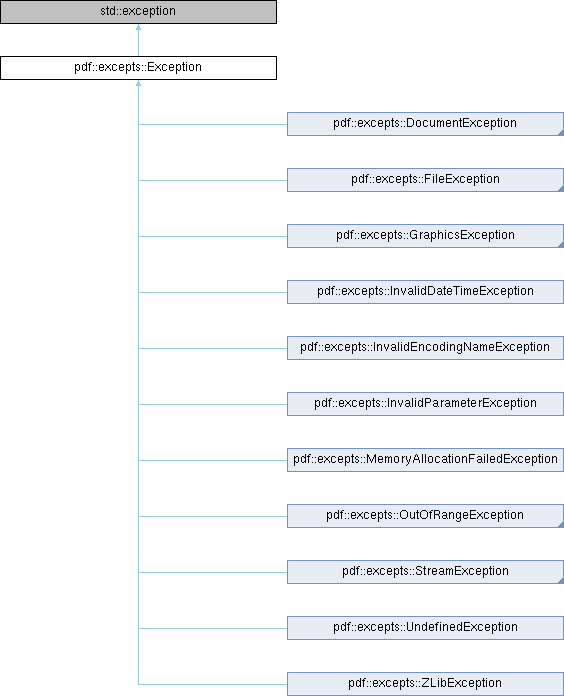
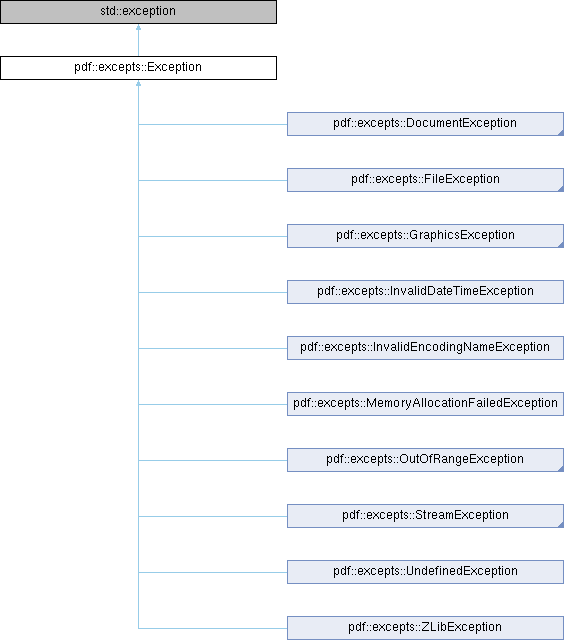
deploy: c2ab6d6fbd1d65dc11c28aa1ee2d482e0fc818df

diff --git a/hierarchy.html b/hierarchy.html
@@ -128,39 +128,39 @@ $(document).ready(function(){initNavTree('hierarchy.html',''); initResizable(); 
 <tr id="row_0_0_2_3_" class="odd"><td class="entry"><span style="width:64px;display:inline-block;">&#160;</span><span class="icona"><span class="icon">C</span></span><a class="el" href="classpdf_1_1excepts_1_1UnsupportedFunctionException.html" target="_self">pdf::excepts::UnsupportedFunctionException</a></td><td class="desc"></td></tr>
 <tr id="row_0_0_3_" class="even"><td class="entry"><span style="width:48px;display:inline-block;">&#160;</span><span class="icona"><span class="icon">C</span></span><a class="el" href="classpdf_1_1excepts_1_1InvalidDateTimeException.html" target="_self">pdf::excepts::InvalidDateTimeException</a></td><td class="desc"></td></tr>
 <tr id="row_0_0_4_" class="odd"><td class="entry"><span style="width:48px;display:inline-block;">&#160;</span><span class="icona"><span class="icon">C</span></span><a class="el" href="classpdf_1_1excepts_1_1InvalidEncodingNameException.html" target="_self">pdf::excepts::InvalidEncodingNameException</a></td><td class="desc"></td></tr>
-<tr id="row_0_0_5_" class="even"><td class="entry"><span style="width:48px;display:inline-block;">&#160;</span><span class="icona"><span class="icon">C</span></span><a class="el" href="classpdf_1_1excepts_1_1InvalidParameterException.html" target="_self">pdf::excepts::InvalidParameterException</a></td><td class="desc"></td></tr>
-<tr id="row_0_0_6_" class="odd"><td class="entry"><span style="width:48px;display:inline-block;">&#160;</span><span class="icona"><span class="icon">C</span></span><a class="el" href="classpdf_1_1excepts_1_1MemoryAllocationFailedException.html" target="_self">pdf::excepts::MemoryAllocationFailedException</a></td><td class="desc"></td></tr>
-<tr id="row_0_0_7_" class="even"><td class="entry"><span style="width:32px;display:inline-block;">&#160;</span><span id="arr_0_0_7_" class="arrow" onclick="toggleFolder('0_0_7_')">&#9660;</span><span class="icona"><span class="icon">C</span></span><a class="el" href="classpdf_1_1excepts_1_1OutOfRangeException.html" target="_self">pdf::excepts::OutOfRangeException</a></td><td class="desc">Represents exceptions linked with out of range values </td></tr>
-<tr id="row_0_0_7_0_" class="odd"><td class="entry"><span style="width:64px;display:inline-block;">&#160;</span><span class="icona"><span class="icon">C</span></span><a class="el" href="classpdf_1_1excepts_1_1BinaryLengthTooLongException.html" target="_self">pdf::excepts::BinaryLengthTooLongException</a></td><td class="desc"></td></tr>
-<tr id="row_0_0_7_1_" class="even"><td class="entry"><span style="width:64px;display:inline-block;">&#160;</span><span class="icona"><span class="icon">C</span></span><a class="el" href="classpdf_1_1excepts_1_1FloatValueOutOfRangeException.html" target="_self">pdf::excepts::FloatValueOutOfRangeException</a></td><td class="desc"></td></tr>
-<tr id="row_0_0_7_2_" class="odd"><td class="entry"><span style="width:64px;display:inline-block;">&#160;</span><span class="icona"><span class="icon">C</span></span><a class="el" href="classpdf_1_1excepts_1_1StringOutOfRangeException.html" target="_self">pdf::excepts::StringOutOfRangeException</a></td><td class="desc"></td></tr>
-<tr id="row_0_0_7_3_" class="even"><td class="entry"><span style="width:64px;display:inline-block;">&#160;</span><span class="icona"><span class="icon">C</span></span><a class="el" href="classpdf_1_1excepts_1_1TooManyIndirectObjectsException.html" target="_self">pdf::excepts::TooManyIndirectObjectsException</a></td><td class="desc"></td></tr>
-<tr id="row_0_0_8_" class="odd"><td class="entry"><span style="width:32px;display:inline-block;">&#160;</span><span id="arr_0_0_8_" class="arrow" onclick="toggleFolder('0_0_8_')">&#9660;</span><span class="icona"><span class="icon">C</span></span><a class="el" href="classpdf_1_1excepts_1_1StreamException.html" target="_self">pdf::excepts::StreamException</a></td><td class="desc">Represents exceptions linked with <a class="el" href="classpdf_1_1ContentStream.html" title="Represents a content stream.">ContentStream</a> </td></tr>
-<tr id="row_0_0_8_0_" class="even"><td class="entry"><span style="width:48px;display:inline-block;">&#160;</span><span id="arr_0_0_8_0_" class="arrow" onclick="toggleFolder('0_0_8_0_')">&#9660;</span><span class="icona"><span class="icon">C</span></span><a class="el" href="classpdf_1_1excepts_1_1FontException.html" target="_self">pdf::excepts::FontException</a></td><td class="desc">Represents exceptions linked with <a class="el" href="classpdf_1_1Font.html" title="Represents a font.">Font</a> </td></tr>
-<tr id="row_0_0_8_0_0_" class="odd"><td class="entry"><span style="width:80px;display:inline-block;">&#160;</span><span class="icona"><span class="icon">C</span></span><a class="el" href="classpdf_1_1excepts_1_1ExceededJWWCodeNumLimitException.html" target="_self">pdf::excepts::ExceededJWWCodeNumLimitException</a></td><td class="desc"></td></tr>
-<tr id="row_0_0_8_0_1_" class="even"><td class="entry"><span style="width:80px;display:inline-block;">&#160;</span><span class="icona"><span class="icon">C</span></span><a class="el" href="classpdf_1_1excepts_1_1FontAlreadyExistsException.html" target="_self">pdf::excepts::FontAlreadyExistsException</a></td><td class="desc"></td></tr>
-<tr id="row_0_0_8_0_2_" class="odd"><td class="entry"><span style="width:80px;display:inline-block;">&#160;</span><span class="icona"><span class="icon">C</span></span><a class="el" href="classpdf_1_1excepts_1_1FontDuplicateRegistrationException.html" target="_self">pdf::excepts::FontDuplicateRegistrationException</a></td><td class="desc"></td></tr>
-<tr id="row_0_0_8_0_3_" class="even"><td class="entry"><span style="width:80px;display:inline-block;">&#160;</span><span class="icona"><span class="icon">C</span></span><a class="el" href="classpdf_1_1excepts_1_1FontInvalidWidthsTableException.html" target="_self">pdf::excepts::FontInvalidWidthsTableException</a></td><td class="desc"></td></tr>
-<tr id="row_0_0_8_0_4_" class="odd"><td class="entry"><span style="width:80px;display:inline-block;">&#160;</span><span class="icona"><span class="icon">C</span></span><a class="el" href="classpdf_1_1excepts_1_1FontNotFoundException.html" target="_self">pdf::excepts::FontNotFoundException</a></td><td class="desc"></td></tr>
-<tr id="row_0_0_8_0_5_" class="even"><td class="entry"><span style="width:80px;display:inline-block;">&#160;</span><span class="icona"><span class="icon">C</span></span><a class="el" href="classpdf_1_1excepts_1_1InvalidEncoderTypeException.html" target="_self">pdf::excepts::InvalidEncoderTypeException</a></td><td class="desc"></td></tr>
-<tr id="row_0_0_8_0_6_" class="odd"><td class="entry"><span style="width:80px;display:inline-block;">&#160;</span><span class="icona"><span class="icon">C</span></span><a class="el" href="classpdf_1_1excepts_1_1InvalidFontNameException.html" target="_self">pdf::excepts::InvalidFontNameException</a></td><td class="desc"></td></tr>
-<tr id="row_0_0_8_0_7_" class="even"><td class="entry"><span style="width:80px;display:inline-block;">&#160;</span><span class="icona"><span class="icon">C</span></span><a class="el" href="classpdf_1_1excepts_1_1InvalidFontSizeException.html" target="_self">pdf::excepts::InvalidFontSizeException</a></td><td class="desc"></td></tr>
-<tr id="row_0_0_8_1_" class="odd"><td class="entry"><span style="width:48px;display:inline-block;">&#160;</span><span id="arr_0_0_8_1_" class="arrow" onclick="toggleFolder('0_0_8_1_')">&#9660;</span><span class="icona"><span class="icon">C</span></span><a class="el" href="classpdf_1_1excepts_1_1ImageException.html" target="_self">pdf::excepts::ImageException</a></td><td class="desc">Represents exceptions linked with <a class="el" href="classpdf_1_1Image.html" title="Represents an image.">Image</a> </td></tr>
-<tr id="row_0_0_8_1_0_" class="even"><td class="entry"><span style="width:80px;display:inline-block;">&#160;</span><span class="icona"><span class="icon">C</span></span><a class="el" href="classpdf_1_1excepts_1_1InvalidColorSpaceException.html" target="_self">pdf::excepts::InvalidColorSpaceException</a></td><td class="desc"></td></tr>
-<tr id="row_0_0_8_1_1_" class="odd"><td class="entry"><span style="width:80px;display:inline-block;">&#160;</span><span class="icona"><span class="icon">C</span></span><a class="el" href="classpdf_1_1excepts_1_1InvalidImageException.html" target="_self">pdf::excepts::InvalidImageException</a></td><td class="desc"></td></tr>
-<tr id="row_0_0_8_1_2_" class="even"><td class="entry"><span style="width:80px;display:inline-block;">&#160;</span><span class="icona"><span class="icon">C</span></span><a class="el" href="classpdf_1_1excepts_1_1InvalidImageOperationException.html" target="_self">pdf::excepts::InvalidImageOperationException</a></td><td class="desc"></td></tr>
-<tr id="row_0_0_8_1_3_" class="odd"><td class="entry"><span style="width:80px;display:inline-block;">&#160;</span><span class="icona"><span class="icon">C</span></span><a class="el" href="classpdf_1_1excepts_1_1InvalidPNGImageException.html" target="_self">pdf::excepts::InvalidPNGImageException</a></td><td class="desc"></td></tr>
-<tr id="row_0_0_8_1_4_" class="even"><td class="entry"><span style="width:80px;display:inline-block;">&#160;</span><span class="icona"><span class="icon">C</span></span><a class="el" href="classpdf_1_1excepts_1_1LibPNGException.html" target="_self">pdf::excepts::LibPNGException</a></td><td class="desc"></td></tr>
-<tr id="row_0_0_8_1_5_" class="odd"><td class="entry"><span style="width:80px;display:inline-block;">&#160;</span><span class="icona"><span class="icon">C</span></span><a class="el" href="classpdf_1_1excepts_1_1NonMatchingBitsPerComponentException.html" target="_self">pdf::excepts::NonMatchingBitsPerComponentException</a></td><td class="desc"></td></tr>
-<tr id="row_0_0_8_1_6_" class="even"><td class="entry"><span style="width:80px;display:inline-block;">&#160;</span><span class="icona"><span class="icon">C</span></span><a class="el" href="classpdf_1_1excepts_1_1UnsupportedJPEGFormatException.html" target="_self">pdf::excepts::UnsupportedJPEGFormatException</a></td><td class="desc"></td></tr>
-<tr id="row_0_0_8_2_" class="odd"><td class="entry"><span style="width:48px;display:inline-block;">&#160;</span><span id="arr_0_0_8_2_" class="arrow" onclick="toggleFolder('0_0_8_2_')">&#9660;</span><span class="icona"><span class="icon">C</span></span><a class="el" href="classpdf_1_1excepts_1_1PageException.html" target="_self">pdf::excepts::PageException</a></td><td class="desc">Represents exceptions linked with <a class="el" href="classpdf_1_1Page.html" title="Represents a pdf document page.">Page</a> </td></tr>
-<tr id="row_0_0_8_2_0_" class="even"><td class="entry"><span style="width:80px;display:inline-block;">&#160;</span><span class="icona"><span class="icon">C</span></span><a class="el" href="classpdf_1_1excepts_1_1EmptyURIException.html" target="_self">pdf::excepts::EmptyURIException</a></td><td class="desc"></td></tr>
-<tr id="row_0_0_8_2_1_" class="odd"><td class="entry"><span style="width:80px;display:inline-block;">&#160;</span><span class="icona"><span class="icon">C</span></span><a class="el" href="classpdf_1_1excepts_1_1InvalidPageLayoutException.html" target="_self">pdf::excepts::InvalidPageLayoutException</a></td><td class="desc"></td></tr>
-<tr id="row_0_0_8_2_2_" class="even"><td class="entry"><span style="width:80px;display:inline-block;">&#160;</span><span class="icona"><span class="icon">C</span></span><a class="el" href="classpdf_1_1excepts_1_1InvalidPageModeException.html" target="_self">pdf::excepts::InvalidPageModeException</a></td><td class="desc"></td></tr>
-<tr id="row_0_0_8_2_3_" class="odd"><td class="entry"><span style="width:80px;display:inline-block;">&#160;</span><span class="icona"><span class="icon">C</span></span><a class="el" href="classpdf_1_1excepts_1_1InvalidPageSizeException.html" target="_self">pdf::excepts::InvalidPageSizeException</a></td><td class="desc"></td></tr>
-<tr id="row_0_0_8_2_4_" class="even"><td class="entry"><span style="width:80px;display:inline-block;">&#160;</span><span class="icona"><span class="icon">C</span></span><a class="el" href="classpdf_1_1excepts_1_1PageValueOutOfRangeException.html" target="_self">pdf::excepts::PageValueOutOfRangeException</a></td><td class="desc"></td></tr>
-<tr id="row_0_0_9_" class="odd"><td class="entry"><span style="width:48px;display:inline-block;">&#160;</span><span class="icona"><span class="icon">C</span></span><a class="el" href="classpdf_1_1excepts_1_1UndefinedException.html" target="_self">pdf::excepts::UndefinedException</a></td><td class="desc">Represents exceptions that should not be raised </td></tr>
-<tr id="row_0_0_10_" class="even"><td class="entry"><span style="width:48px;display:inline-block;">&#160;</span><span class="icona"><span class="icon">C</span></span><a class="el" href="classpdf_1_1excepts_1_1ZLibException.html" target="_self">pdf::excepts::ZLibException</a></td><td class="desc"></td></tr>
+<tr id="row_0_0_5_" class="even"><td class="entry"><span style="width:48px;display:inline-block;">&#160;</span><span class="icona"><span class="icon">C</span></span><a class="el" href="classpdf_1_1excepts_1_1MemoryAllocationFailedException.html" target="_self">pdf::excepts::MemoryAllocationFailedException</a></td><td class="desc"></td></tr>
+<tr id="row_0_0_6_" class="odd"><td class="entry"><span style="width:32px;display:inline-block;">&#160;</span><span id="arr_0_0_6_" class="arrow" onclick="toggleFolder('0_0_6_')">&#9660;</span><span class="icona"><span class="icon">C</span></span><a class="el" href="classpdf_1_1excepts_1_1OutOfRangeException.html" target="_self">pdf::excepts::OutOfRangeException</a></td><td class="desc">Represents exceptions linked with out of range values </td></tr>
+<tr id="row_0_0_6_0_" class="even"><td class="entry"><span style="width:64px;display:inline-block;">&#160;</span><span class="icona"><span class="icon">C</span></span><a class="el" href="classpdf_1_1excepts_1_1BinaryLengthTooLongException.html" target="_self">pdf::excepts::BinaryLengthTooLongException</a></td><td class="desc"></td></tr>
+<tr id="row_0_0_6_1_" class="odd"><td class="entry"><span style="width:64px;display:inline-block;">&#160;</span><span class="icona"><span class="icon">C</span></span><a class="el" href="classpdf_1_1excepts_1_1FloatValueOutOfRangeException.html" target="_self">pdf::excepts::FloatValueOutOfRangeException</a></td><td class="desc"></td></tr>
+<tr id="row_0_0_6_2_" class="even"><td class="entry"><span style="width:64px;display:inline-block;">&#160;</span><span class="icona"><span class="icon">C</span></span><a class="el" href="classpdf_1_1excepts_1_1InvalidParameterException.html" target="_self">pdf::excepts::InvalidParameterException</a></td><td class="desc"></td></tr>
+<tr id="row_0_0_6_3_" class="odd"><td class="entry"><span style="width:64px;display:inline-block;">&#160;</span><span class="icona"><span class="icon">C</span></span><a class="el" href="classpdf_1_1excepts_1_1StringOutOfRangeException.html" target="_self">pdf::excepts::StringOutOfRangeException</a></td><td class="desc"></td></tr>
+<tr id="row_0_0_6_4_" class="even"><td class="entry"><span style="width:64px;display:inline-block;">&#160;</span><span class="icona"><span class="icon">C</span></span><a class="el" href="classpdf_1_1excepts_1_1TooManyIndirectObjectsException.html" target="_self">pdf::excepts::TooManyIndirectObjectsException</a></td><td class="desc"></td></tr>
+<tr id="row_0_0_7_" class="odd"><td class="entry"><span style="width:32px;display:inline-block;">&#160;</span><span id="arr_0_0_7_" class="arrow" onclick="toggleFolder('0_0_7_')">&#9660;</span><span class="icona"><span class="icon">C</span></span><a class="el" href="classpdf_1_1excepts_1_1StreamException.html" target="_self">pdf::excepts::StreamException</a></td><td class="desc">Represents exceptions linked with <a class="el" href="classpdf_1_1ContentStream.html" title="Represents a content stream.">ContentStream</a> </td></tr>
+<tr id="row_0_0_7_0_" class="even"><td class="entry"><span style="width:48px;display:inline-block;">&#160;</span><span id="arr_0_0_7_0_" class="arrow" onclick="toggleFolder('0_0_7_0_')">&#9660;</span><span class="icona"><span class="icon">C</span></span><a class="el" href="classpdf_1_1excepts_1_1FontException.html" target="_self">pdf::excepts::FontException</a></td><td class="desc">Represents exceptions linked with <a class="el" href="classpdf_1_1Font.html" title="Represents a font.">Font</a> </td></tr>
+<tr id="row_0_0_7_0_0_" class="odd"><td class="entry"><span style="width:80px;display:inline-block;">&#160;</span><span class="icona"><span class="icon">C</span></span><a class="el" href="classpdf_1_1excepts_1_1ExceededJWWCodeNumLimitException.html" target="_self">pdf::excepts::ExceededJWWCodeNumLimitException</a></td><td class="desc"></td></tr>
+<tr id="row_0_0_7_0_1_" class="even"><td class="entry"><span style="width:80px;display:inline-block;">&#160;</span><span class="icona"><span class="icon">C</span></span><a class="el" href="classpdf_1_1excepts_1_1FontAlreadyExistsException.html" target="_self">pdf::excepts::FontAlreadyExistsException</a></td><td class="desc"></td></tr>
+<tr id="row_0_0_7_0_2_" class="odd"><td class="entry"><span style="width:80px;display:inline-block;">&#160;</span><span class="icona"><span class="icon">C</span></span><a class="el" href="classpdf_1_1excepts_1_1FontDuplicateRegistrationException.html" target="_self">pdf::excepts::FontDuplicateRegistrationException</a></td><td class="desc"></td></tr>
+<tr id="row_0_0_7_0_3_" class="even"><td class="entry"><span style="width:80px;display:inline-block;">&#160;</span><span class="icona"><span class="icon">C</span></span><a class="el" href="classpdf_1_1excepts_1_1FontInvalidWidthsTableException.html" target="_self">pdf::excepts::FontInvalidWidthsTableException</a></td><td class="desc"></td></tr>
+<tr id="row_0_0_7_0_4_" class="odd"><td class="entry"><span style="width:80px;display:inline-block;">&#160;</span><span class="icona"><span class="icon">C</span></span><a class="el" href="classpdf_1_1excepts_1_1FontNotFoundException.html" target="_self">pdf::excepts::FontNotFoundException</a></td><td class="desc"></td></tr>
+<tr id="row_0_0_7_0_5_" class="even"><td class="entry"><span style="width:80px;display:inline-block;">&#160;</span><span class="icona"><span class="icon">C</span></span><a class="el" href="classpdf_1_1excepts_1_1InvalidEncoderTypeException.html" target="_self">pdf::excepts::InvalidEncoderTypeException</a></td><td class="desc"></td></tr>
+<tr id="row_0_0_7_0_6_" class="odd"><td class="entry"><span style="width:80px;display:inline-block;">&#160;</span><span class="icona"><span class="icon">C</span></span><a class="el" href="classpdf_1_1excepts_1_1InvalidFontNameException.html" target="_self">pdf::excepts::InvalidFontNameException</a></td><td class="desc"></td></tr>
+<tr id="row_0_0_7_0_7_" class="even"><td class="entry"><span style="width:80px;display:inline-block;">&#160;</span><span class="icona"><span class="icon">C</span></span><a class="el" href="classpdf_1_1excepts_1_1InvalidFontSizeException.html" target="_self">pdf::excepts::InvalidFontSizeException</a></td><td class="desc"></td></tr>
+<tr id="row_0_0_7_1_" class="odd"><td class="entry"><span style="width:48px;display:inline-block;">&#160;</span><span id="arr_0_0_7_1_" class="arrow" onclick="toggleFolder('0_0_7_1_')">&#9660;</span><span class="icona"><span class="icon">C</span></span><a class="el" href="classpdf_1_1excepts_1_1ImageException.html" target="_self">pdf::excepts::ImageException</a></td><td class="desc">Represents exceptions linked with <a class="el" href="classpdf_1_1Image.html" title="Represents an image.">Image</a> </td></tr>
+<tr id="row_0_0_7_1_0_" class="even"><td class="entry"><span style="width:80px;display:inline-block;">&#160;</span><span class="icona"><span class="icon">C</span></span><a class="el" href="classpdf_1_1excepts_1_1InvalidColorSpaceException.html" target="_self">pdf::excepts::InvalidColorSpaceException</a></td><td class="desc"></td></tr>
+<tr id="row_0_0_7_1_1_" class="odd"><td class="entry"><span style="width:80px;display:inline-block;">&#160;</span><span class="icona"><span class="icon">C</span></span><a class="el" href="classpdf_1_1excepts_1_1InvalidImageException.html" target="_self">pdf::excepts::InvalidImageException</a></td><td class="desc"></td></tr>
+<tr id="row_0_0_7_1_2_" class="even"><td class="entry"><span style="width:80px;display:inline-block;">&#160;</span><span class="icona"><span class="icon">C</span></span><a class="el" href="classpdf_1_1excepts_1_1InvalidImageOperationException.html" target="_self">pdf::excepts::InvalidImageOperationException</a></td><td class="desc"></td></tr>
+<tr id="row_0_0_7_1_3_" class="odd"><td class="entry"><span style="width:80px;display:inline-block;">&#160;</span><span class="icona"><span class="icon">C</span></span><a class="el" href="classpdf_1_1excepts_1_1InvalidPNGImageException.html" target="_self">pdf::excepts::InvalidPNGImageException</a></td><td class="desc"></td></tr>
+<tr id="row_0_0_7_1_4_" class="even"><td class="entry"><span style="width:80px;display:inline-block;">&#160;</span><span class="icona"><span class="icon">C</span></span><a class="el" href="classpdf_1_1excepts_1_1LibPNGException.html" target="_self">pdf::excepts::LibPNGException</a></td><td class="desc"></td></tr>
+<tr id="row_0_0_7_1_5_" class="odd"><td class="entry"><span style="width:80px;display:inline-block;">&#160;</span><span class="icona"><span class="icon">C</span></span><a class="el" href="classpdf_1_1excepts_1_1NonMatchingBitsPerComponentException.html" target="_self">pdf::excepts::NonMatchingBitsPerComponentException</a></td><td class="desc"></td></tr>
+<tr id="row_0_0_7_1_6_" class="even"><td class="entry"><span style="width:80px;display:inline-block;">&#160;</span><span class="icona"><span class="icon">C</span></span><a class="el" href="classpdf_1_1excepts_1_1UnsupportedJPEGFormatException.html" target="_self">pdf::excepts::UnsupportedJPEGFormatException</a></td><td class="desc"></td></tr>
+<tr id="row_0_0_7_2_" class="odd"><td class="entry"><span style="width:48px;display:inline-block;">&#160;</span><span id="arr_0_0_7_2_" class="arrow" onclick="toggleFolder('0_0_7_2_')">&#9660;</span><span class="icona"><span class="icon">C</span></span><a class="el" href="classpdf_1_1excepts_1_1PageException.html" target="_self">pdf::excepts::PageException</a></td><td class="desc">Represents exceptions linked with <a class="el" href="classpdf_1_1Page.html" title="Represents a pdf document page.">Page</a> </td></tr>
+<tr id="row_0_0_7_2_0_" class="even"><td class="entry"><span style="width:80px;display:inline-block;">&#160;</span><span class="icona"><span class="icon">C</span></span><a class="el" href="classpdf_1_1excepts_1_1EmptyURIException.html" target="_self">pdf::excepts::EmptyURIException</a></td><td class="desc"></td></tr>
+<tr id="row_0_0_7_2_1_" class="odd"><td class="entry"><span style="width:80px;display:inline-block;">&#160;</span><span class="icona"><span class="icon">C</span></span><a class="el" href="classpdf_1_1excepts_1_1InvalidPageLayoutException.html" target="_self">pdf::excepts::InvalidPageLayoutException</a></td><td class="desc"></td></tr>
+<tr id="row_0_0_7_2_2_" class="even"><td class="entry"><span style="width:80px;display:inline-block;">&#160;</span><span class="icona"><span class="icon">C</span></span><a class="el" href="classpdf_1_1excepts_1_1InvalidPageModeException.html" target="_self">pdf::excepts::InvalidPageModeException</a></td><td class="desc"></td></tr>
+<tr id="row_0_0_7_2_3_" class="odd"><td class="entry"><span style="width:80px;display:inline-block;">&#160;</span><span class="icona"><span class="icon">C</span></span><a class="el" href="classpdf_1_1excepts_1_1InvalidPageSizeException.html" target="_self">pdf::excepts::InvalidPageSizeException</a></td><td class="desc"></td></tr>
+<tr id="row_0_0_7_2_4_" class="even"><td class="entry"><span style="width:80px;display:inline-block;">&#160;</span><span class="icona"><span class="icon">C</span></span><a class="el" href="classpdf_1_1excepts_1_1PageValueOutOfRangeException.html" target="_self">pdf::excepts::PageValueOutOfRangeException</a></td><td class="desc"></td></tr>
+<tr id="row_0_0_8_" class="odd"><td class="entry"><span style="width:48px;display:inline-block;">&#160;</span><span class="icona"><span class="icon">C</span></span><a class="el" href="classpdf_1_1excepts_1_1UndefinedException.html" target="_self">pdf::excepts::UndefinedException</a></td><td class="desc">Represents exceptions that should not be raised </td></tr>
+<tr id="row_0_0_9_" class="even"><td class="entry"><span style="width:48px;display:inline-block;">&#160;</span><span class="icona"><span class="icon">C</span></span><a class="el" href="classpdf_1_1excepts_1_1ZLibException.html" target="_self">pdf::excepts::ZLibException</a></td><td class="desc"></td></tr>
 <tr id="row_1_" class="odd"><td class="entry"><span style="width:0px;display:inline-block;">&#160;</span><span id="arr_1_" class="arrow" onclick="toggleFolder('1_')">&#9660;</span><span class="icona"><span class="icon">C</span></span><a class="el" href="classpdf_1_1Object.html" target="_self">pdf::Object</a></td><td class="desc">Represents a pdf object </td></tr>
 <tr id="row_1_0_" class="even"><td class="entry"><span style="width:32px;display:inline-block;">&#160;</span><span class="icona"><span class="icon">C</span></span><a class="el" href="classpdf_1_1Box.html" target="_self">pdf::Box</a></td><td class="desc">Represents a pdf box </td></tr>
 <tr id="row_1_1_" class="odd"><td class="entry"><span style="width:16px;display:inline-block;">&#160;</span><span id="arr_1_1_" class="arrow" onclick="toggleFolder('1_1_')">&#9660;</span><span class="icona"><span class="icon">C</span></span><a class="el" href="classpdf_1_1Color.html" target="_self">pdf::Color</a></td><td class="desc">Represents a color </td></tr>

diff --git a/classpdf_1_1excepts_1_1InvalidParameterException.html b/classpdf_1_1excepts_1_1InvalidParameterException.html
@@ -102,12 +102,17 @@ Inheritance diagram for pdf::excepts::InvalidParameterException:</div>
  <div class="center">
   <img src="classpdf_1_1excepts_1_1InvalidParameterException.png" usemap="#pdf::excepts::InvalidParameterException_map" alt=""/>
   <map id="pdf::excepts::InvalidParameterException_map" name="pdf::excepts::InvalidParameterException_map">
+<area href="classpdf_1_1excepts_1_1OutOfRangeException.html" title="Represents exceptions linked with out of range values." alt="pdf::excepts::OutOfRangeException" shape="rect" coords="0,112,235,136"/>
 <area href="classpdf_1_1excepts_1_1Exception.html" title="Represents the base exception class." alt="pdf::excepts::Exception" shape="rect" coords="0,56,235,80"/>
   </map>
 </div></div>
 <table class="memberdecls">
 <tr class="heading"><td colspan="2"><h2 class="groupheader"><a id="inherited" name="inherited"></a>
 Additional Inherited Members</h2></td></tr>
+<tr class="inherit_header pub_methods_classpdf_1_1excepts_1_1OutOfRangeException"><td colspan="2" onclick="javascript:toggleInherit('pub_methods_classpdf_1_1excepts_1_1OutOfRangeException')"><img src="closed.png" alt="-"/>&#160;Public Member Functions inherited from <a class="el" href="classpdf_1_1excepts_1_1OutOfRangeException.html">pdf::excepts::OutOfRangeException</a></td></tr>
+<tr class="memitem:a37e852a6eccf28d365b8bb660198c669 inherit pub_methods_classpdf_1_1excepts_1_1OutOfRangeException"><td class="memItemLeft" align="right" valign="top">&#160;</td><td class="memItemRight" valign="bottom"><a class="el" href="classpdf_1_1excepts_1_1OutOfRangeException.html#a37e852a6eccf28d365b8bb660198c669">OutOfRangeException</a> (const char *className, const char *errorMessage, unsigned long errorCode, unsigned long detailCode=0U) noexcept</td></tr>
+<tr class="memdesc:a37e852a6eccf28d365b8bb660198c669 inherit pub_methods_classpdf_1_1excepts_1_1OutOfRangeException"><td class="mdescLeft">&#160;</td><td class="mdescRight">Creates a new <a class="el" href="classpdf_1_1excepts_1_1OutOfRangeException.html" title="Represents exceptions linked with out of range values.">OutOfRangeException</a> with parameters.  <a href="classpdf_1_1excepts_1_1OutOfRangeException.html#a37e852a6eccf28d365b8bb660198c669">More...</a><br /></td></tr>
+<tr class="separator:a37e852a6eccf28d365b8bb660198c669 inherit pub_methods_classpdf_1_1excepts_1_1OutOfRangeException"><td class="memSeparator" colspan="2">&#160;</td></tr>
 <tr class="inherit_header pub_methods_classpdf_1_1excepts_1_1Exception"><td colspan="2" onclick="javascript:toggleInherit('pub_methods_classpdf_1_1excepts_1_1Exception')"><img src="closed.png" alt="-"/>&#160;Public Member Functions inherited from <a class="el" href="classpdf_1_1excepts_1_1Exception.html">pdf::excepts::Exception</a></td></tr>
 <tr class="memitem:a7cf57d4c5506f0271173bcd5b1b4affe inherit pub_methods_classpdf_1_1excepts_1_1Exception"><td class="memItemLeft" align="right" valign="top">&#160;</td><td class="memItemRight" valign="bottom"><a class="el" href="classpdf_1_1excepts_1_1Exception.html#a7cf57d4c5506f0271173bcd5b1b4affe">Exception</a> (const char *className, const char *errorMessage, unsigned long errorCode, unsigned long detailCode=0U) noexcept</td></tr>
 <tr class="memdesc:a7cf57d4c5506f0271173bcd5b1b4affe inherit pub_methods_classpdf_1_1excepts_1_1Exception"><td class="mdescLeft">&#160;</td><td class="mdescRight">Creates a new <a class="el" href="classpdf_1_1excepts_1_1Exception.html" title="Represents the base exception class.">Exception</a> with parameters.  <a href="classpdf_1_1excepts_1_1Exception.html#a7cf57d4c5506f0271173bcd5b1b4affe">More...</a><br /></td></tr>

diff --git a/classpdf_1_1excepts_1_1InvalidParameterException-members.html b/classpdf_1_1excepts_1_1InvalidParameterException-members.html
@@ -104,8 +104,10 @@ $(document).ready(function(){initNavTree('classpdf_1_1excepts_1_1InvalidParamete
   <tr class="even"><td class="entry"><a class="el" href="classpdf_1_1excepts_1_1Exception.html#a934aa7214b6e1459da9725996cd74c15">getName</a>() const noexcept final</td><td class="entry"><a class="el" href="classpdf_1_1excepts_1_1Exception.html">pdf::excepts::Exception</a></td><td class="entry"><span class="mlabel">virtual</span></td></tr>
   <tr class="odd"><td class="entry"><a class="el" href="classpdf_1_1excepts_1_1Exception.html#a681f99890ffe78e1f8b9c3b91c8c4198">hasDetailCode</a>() const noexcept final</td><td class="entry"><a class="el" href="classpdf_1_1excepts_1_1Exception.html">pdf::excepts::Exception</a></td><td class="entry"><span class="mlabel">virtual</span></td></tr>
   <tr bgcolor="#f0f0f0" class="even"><td class="entry"><b>InvalidParameterException</b>() noexcept (defined in <a class="el" href="classpdf_1_1excepts_1_1InvalidParameterException.html">pdf::excepts::InvalidParameterException</a>)</td><td class="entry"><a class="el" href="classpdf_1_1excepts_1_1InvalidParameterException.html">pdf::excepts::InvalidParameterException</a></td><td class="entry"></td></tr>
-  <tr class="odd"><td class="entry"><a class="el" href="classpdf_1_1excepts_1_1Exception.html#aa021a4d16cfc8a9d4a4710d609b2fa7c">what</a>() const noexcept override final</td><td class="entry"><a class="el" href="classpdf_1_1excepts_1_1Exception.html">pdf::excepts::Exception</a></td><td class="entry"><span class="mlabel">virtual</span></td></tr>
-  <tr bgcolor="#f0f0f0" class="even"><td class="entry"><b>~Exception</b>() noexcept=0 (defined in <a class="el" href="classpdf_1_1excepts_1_1Exception.html">pdf::excepts::Exception</a>)</td><td class="entry"><a class="el" href="classpdf_1_1excepts_1_1Exception.html">pdf::excepts::Exception</a></td><td class="entry"><span class="mlabel">pure virtual</span></td></tr>
+  <tr class="odd"><td class="entry"><a class="el" href="classpdf_1_1excepts_1_1OutOfRangeException.html#a37e852a6eccf28d365b8bb660198c669">OutOfRangeException</a>(const char *className, const char *errorMessage, unsigned long errorCode, unsigned long detailCode=0U) noexcept</td><td class="entry"><a class="el" href="classpdf_1_1excepts_1_1OutOfRangeException.html">pdf::excepts::OutOfRangeException</a></td><td class="entry"></td></tr>
+  <tr class="even"><td class="entry"><a class="el" href="classpdf_1_1excepts_1_1Exception.html#aa021a4d16cfc8a9d4a4710d609b2fa7c">what</a>() const noexcept override final</td><td class="entry"><a class="el" href="classpdf_1_1excepts_1_1Exception.html">pdf::excepts::Exception</a></td><td class="entry"><span class="mlabel">virtual</span></td></tr>
+  <tr bgcolor="#f0f0f0" class="odd"><td class="entry"><b>~Exception</b>() noexcept=0 (defined in <a class="el" href="classpdf_1_1excepts_1_1Exception.html">pdf::excepts::Exception</a>)</td><td class="entry"><a class="el" href="classpdf_1_1excepts_1_1Exception.html">pdf::excepts::Exception</a></td><td class="entry"><span class="mlabel">pure virtual</span></td></tr>
+  <tr bgcolor="#f0f0f0" class="even"><td class="entry"><b>~OutOfRangeException</b>() noexcept=0 (defined in <a class="el" href="classpdf_1_1excepts_1_1OutOfRangeException.html">pdf::excepts::OutOfRangeException</a>)</td><td class="entry"><a class="el" href="classpdf_1_1excepts_1_1OutOfRangeException.html">pdf::excepts::OutOfRangeException</a></td><td class="entry"><span class="mlabel">pure virtual</span></td></tr>
 </table></div><!-- contents -->
 </div><!-- doc-content -->
 <!-- start footer part -->

diff --git a/classpdf_1_1excepts_1_1Exception.html b/classpdf_1_1excepts_1_1Exception.html
@@ -113,12 +113,11 @@ Inheritance diagram for pdf::excepts::Exception:</div>
 <area href="classpdf_1_1excepts_1_1GraphicsException.html" title="Represents exceptions linked with graphics." alt="pdf::excepts::GraphicsException" shape="rect" coords="287,224,564,248"/>
 <area href="classpdf_1_1excepts_1_1InvalidDateTimeException.html" alt="pdf::excepts::InvalidDateTimeException" shape="rect" coords="287,280,564,304"/>
 <area href="classpdf_1_1excepts_1_1InvalidEncodingNameException.html" alt="pdf::excepts::InvalidEncodingNameException" shape="rect" coords="287,336,564,360"/>
-<area href="classpdf_1_1excepts_1_1InvalidParameterException.html" alt="pdf::excepts::InvalidParameterException" shape="rect" coords="287,392,564,416"/>
-<area href="classpdf_1_1excepts_1_1MemoryAllocationFailedException.html" alt="pdf::excepts::MemoryAllocationFailedException" shape="rect" coords="287,448,564,472"/>
-<area href="classpdf_1_1excepts_1_1OutOfRangeException.html" title="Represents exceptions linked with out of range values." alt="pdf::excepts::OutOfRangeException" shape="rect" coords="287,504,564,528"/>
-<area href="classpdf_1_1excepts_1_1StreamException.html" title="Represents exceptions linked with ContentStream." alt="pdf::excepts::StreamException" shape="rect" coords="287,560,564,584"/>
-<area href="classpdf_1_1excepts_1_1UndefinedException.html" title="Represents exceptions that should not be raised." alt="pdf::excepts::UndefinedException" shape="rect" coords="287,616,564,640"/>
-<area href="classpdf_1_1excepts_1_1ZLibException.html" alt="pdf::excepts::ZLibException" shape="rect" coords="287,672,564,696"/>
+<area href="classpdf_1_1excepts_1_1MemoryAllocationFailedException.html" alt="pdf::excepts::MemoryAllocationFailedException" shape="rect" coords="287,392,564,416"/>
+<area href="classpdf_1_1excepts_1_1OutOfRangeException.html" title="Represents exceptions linked with out of range values." alt="pdf::excepts::OutOfRangeException" shape="rect" coords="287,448,564,472"/>
+<area href="classpdf_1_1excepts_1_1StreamException.html" title="Represents exceptions linked with ContentStream." alt="pdf::excepts::StreamException" shape="rect" coords="287,504,564,528"/>
+<area href="classpdf_1_1excepts_1_1UndefinedException.html" title="Represents exceptions that should not be raised." alt="pdf::excepts::UndefinedException" shape="rect" coords="287,560,564,584"/>
+<area href="classpdf_1_1excepts_1_1ZLibException.html" alt="pdf::excepts::ZLibException" shape="rect" coords="287,616,564,640"/>
   </map>
 </div></div>
 <table class="memberdecls">

diff --git a/classpdf_1_1excepts_1_1OutOfRangeException.html b/classpdf_1_1excepts_1_1OutOfRangeException.html
@@ -108,11 +108,12 @@ Inheritance diagram for pdf::excepts::OutOfRangeException:</div>
  <div class="center">
   <img src="classpdf_1_1excepts_1_1OutOfRangeException.png" usemap="#pdf::excepts::OutOfRangeException_map" alt=""/>
   <map id="pdf::excepts::OutOfRangeException_map" name="pdf::excepts::OutOfRangeException_map">
-<area href="classpdf_1_1excepts_1_1Exception.html" title="Represents the base exception class." alt="pdf::excepts::Exception" shape="rect" coords="432,56,710,80"/>
+<area href="classpdf_1_1excepts_1_1Exception.html" title="Represents the base exception class." alt="pdf::excepts::Exception" shape="rect" coords="576,56,854,80"/>
 <area href="classpdf_1_1excepts_1_1BinaryLengthTooLongException.html" alt="pdf::excepts::BinaryLengthTooLongException" shape="rect" coords="0,168,278,192"/>
 <area href="classpdf_1_1excepts_1_1FloatValueOutOfRangeException.html" alt="pdf::excepts::FloatValueOutOfRangeException" shape="rect" coords="288,168,566,192"/>
-<area href="classpdf_1_1excepts_1_1StringOutOfRangeException.html" alt="pdf::excepts::StringOutOfRangeException" shape="rect" coords="576,168,854,192"/>
-<area href="classpdf_1_1excepts_1_1TooManyIndirectObjectsException.html" alt="pdf::excepts::TooManyIndirectObjectsException" shape="rect" coords="864,168,1142,192"/>
+<area href="classpdf_1_1excepts_1_1InvalidParameterException.html" alt="pdf::excepts::InvalidParameterException" shape="rect" coords="576,168,854,192"/>
+<area href="classpdf_1_1excepts_1_1StringOutOfRangeException.html" alt="pdf::excepts::StringOutOfRangeException" shape="rect" coords="864,168,1142,192"/>
+<area href="classpdf_1_1excepts_1_1TooManyIndirectObjectsException.html" alt="pdf::excepts::TooManyIndirectObjectsException" shape="rect" coords="1152,168,1430,192"/>
   </map>
 </div></div>
 <table class="memberdecls">

diff --git a/hierarchy.js b/hierarchy.js
@@ -38,11 +38,11 @@ var hierarchy =
         ] ],
         [ "pdf::excepts::InvalidDateTimeException", "classpdf_1_1excepts_1_1InvalidDateTimeException.html", null ],
         [ "pdf::excepts::InvalidEncodingNameException", "classpdf_1_1excepts_1_1InvalidEncodingNameException.html", null ],
-        [ "pdf::excepts::InvalidParameterException", "classpdf_1_1excepts_1_1InvalidParameterException.html", null ],
         [ "pdf::excepts::MemoryAllocationFailedException", "classpdf_1_1excepts_1_1MemoryAllocationFailedException.html", null ],
         [ "pdf::excepts::OutOfRangeException", "classpdf_1_1excepts_1_1OutOfRangeException.html", [
           [ "pdf::excepts::BinaryLengthTooLongException", "classpdf_1_1excepts_1_1BinaryLengthTooLongException.html", null ],
           [ "pdf::excepts::FloatValueOutOfRangeException", "classpdf_1_1excepts_1_1FloatValueOutOfRangeException.html", null ],
+          [ "pdf::excepts::InvalidParameterException", "classpdf_1_1excepts_1_1InvalidParameterException.html", null ],
           [ "pdf::excepts::StringOutOfRangeException", "classpdf_1_1excepts_1_1StringOutOfRangeException.html", null ],
           [ "pdf::excepts::TooManyIndirectObjectsException", "classpdf_1_1excepts_1_1TooManyIndirectObjectsException.html", null ]
         ] ],
